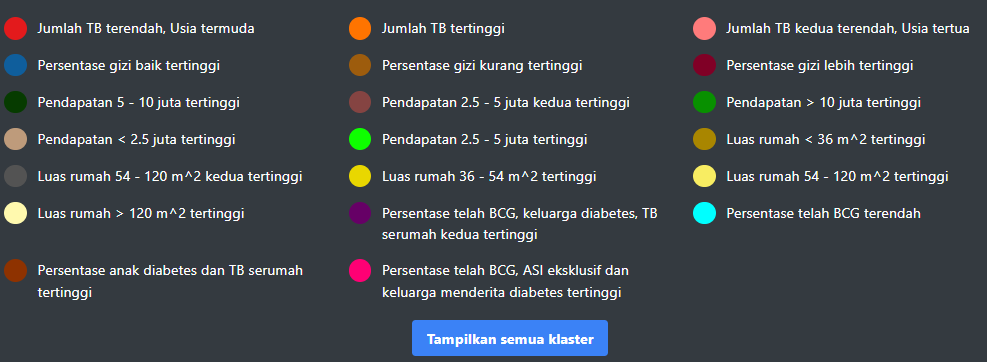
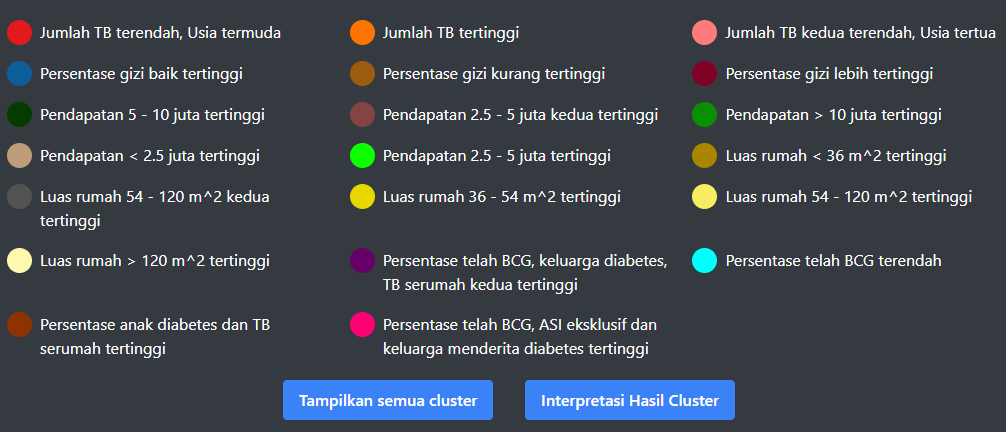
last-update

diff --git a/pages/cluster/index.js b/pages/cluster/index.js
@@ -96,10 +96,9 @@ function Cluster() {
                                 <div className="px-4 pt-4">
                                     <div className="flex flex-col">
                                         <button
-                                            className="box-border appearance-none cursor-pointer focus:outline-none flex items-center justify-between"
+                                            className="text-left box-border appearance-none cursor-pointer focus:outline-none"
                                         >
                                             <p className="font-semibold text-lg mb-2 inline-block">{kec}</p>
-
                                         </button>
                                     </div>
                                 </div>

diff --git a/pages/panduan/index.js b/pages/panduan/index.js
@@ -276,6 +276,10 @@ function Panduan() {
                                 <div className="mt-4 flex items-center justify-center">
                                     <img src="/images/panakkukang2.png" className="h-48"/>
                                 </div>
+                                <p className="ml-14 mt-4 mr-4">
+                                    Untuk melihat interpretasi hasil klaster dan rekomendasi yang dapat diberikan dari
+                                    hasil clustering, klik tombol 'Interpretasi hasil cluster'.
+                                </p>
                                 <p className="ml-10 mt-4 font-semibold">
                                     b. Daftar kecamatan
                                 </p>

diff --git a/src/components/MapClustering.js b/src/components/MapClustering.js
@@ -808,7 +808,7 @@ const Map = (props) => {
                     <Button
                         className="ml-8 bg-blue-500 hover:bg-blue-700 text-white font-semibold py-2 px-4 rounded mt-5 mb-5"
                         onClick={() => setShowModal(true)}>
-                        Interpretasi Hasil Cluster
+                        Interpretasi hasil cluster
                     </Button>
                 </div>
             </div>
